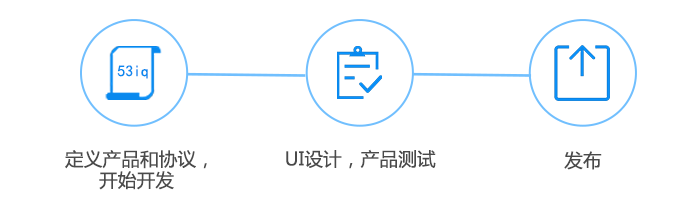
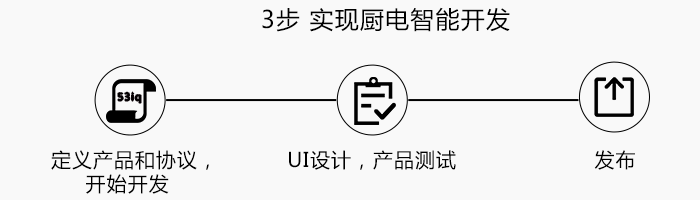
编辑产品信息上传图片到云存储、 开发文档左侧菜单栏统一

diff --git a/templates/center/login.html b/templates/center/login.html
@@ -133,7 +133,7 @@
             text-align: center;
         }
         .btn:hover, .btn:focus{
-            color: #fff;
+            color: #ff6202;
             border-color: rgba(204,204,204,0.43);
             background-color: rgba(255,255,255,0.3);
         }
@@ -166,7 +166,7 @@
             width: 100%;
             height: 45px;
             text-align: center;
-            color: #fff;
+            color: #ff6202;
             border-color: rgba(204,204,204,0.43);
             background-color: rgba(255,255,255,0.3);
         }
@@ -233,9 +233,17 @@
         margin-top: -3px;
         margin-right: 5px;
     }
+    input::-webkit-input-placeholder{
+    color: #797979;opacity:1;
+}
 
     </style>
 {% endblock %}
+{% block img %}
+    <img src="{% static 'image/home/logo-dev.png' %}" height="40"
+                            title="53iq云智能云">
+{% endblock %}
+
 {% block menu %}
 
     <li><a href="{% url 'home/guide' %}">开发指南</a></li>

diff --git a/static/ng/product/info/controller.js b/static/ng/product/info/controller.js
@@ -104,9 +104,9 @@ angular.module('Product.info', ['ngRoute'])
                 alert("产品名称不能为空");
             }
             else {
-                if (!startWith(productImg.attr("src"), "http://dldir.56iq.net")) {
+                if (!startWith(productImg.attr("src"), "http://storage.56iq.net")) {
                     $.ajaxFileUpload({
-                        url: "http://dldir.56iq.net/api/upload/?type=callback&t=" + new Date().getTime(),
+                        url: "/product/upload_file/?type=callback&t=" + new Date().getTime(),
                         fileElementId: "productImgFile",
                         dataType: 'json',
                         success: function (data) {

diff --git a/templates/wiki/doc.html b/templates/wiki/doc.html
@@ -201,7 +201,11 @@
                 data: "",
                 beforeSend:function(){
                     $(".menu-li").children('a').css('color','#000000');
+                    $(".menu-li").css('border-left','none');
+                    $(".menu-li").css('background','#ffffff');
                     $(aobj).css('color','#ff6202');
+                    $(aobj).parent('li').css('background','#e6e6e6');
+                    $(aobj).parent('li').css('border-left','3px solid #ff6202');
                 },
                 success: function (msg) {
 

diff --git a/templates/home/zny.html b/templates/home/zny.html
@@ -69,9 +69,9 @@
     </div>
 
     <div class="hbox">
-        <h2 style="text-align: center;">3步 实现厨电智能开发</h2>
 
-            <div style="text-align: center;">
+
+            <div style="text-align: center;margin-top: 45px;">
                  <img src="{% static 'image/home/lc.png' %}" >
                 <img style="margin-top:30px" src="{% static 'image/home/znpt.jpg' %}" >
             </div>

diff --git a/templates/debug/debug_interface.html b/templates/debug/debug_interface.html
@@ -22,6 +22,7 @@
         }
         .activate{
             background: #e6e6e6;
+            border-left: 3px solid #ff6202;
         }
 
         .activate a{

diff --git a/app/product/views.py b/app/product/views.py
@@ -5,8 +5,8 @@ from django.core.urlresolvers import reverse
 from django.shortcuts import render
 from django.http.response import HttpResponse, JsonResponse
 from django.http.response import HttpResponseRedirect
-from django.http.request import HttpRequest
 import requests
+
 from django.contrib.auth.decorators import login_required
 
 from base.util import gen_app_default_conf
@@ -23,8 +23,8 @@ from base.const import StatusCode
 from base.const import ConventionValue
 from common.smart_helper import *
 from common.message_helper import save_user_message
-from open.settings import BASE_DIR
-
+from conf.commonconf import CLOUD_TOKEN,KEY_URL
+from ebcloudstore.client import EbStore
 from common.util import parse_response, send_test_device_status
 from model.center.app import App
 
@@ -53,7 +53,8 @@ def product_list(request):
         # 在一个人固定账号下没用默认产品，则创建三个默认产品，有跳过
         if not App.objects.filter(developer=DEFAULT_USER).filter(check_status=_convention.APP_DEFAULT):
             for i in range(len(APP_NAME)):
-                result = create_app(DEFAULT_USER, APP_NAME[i], APP_MODEL[i], APP_CATEGORY[i], DEVICE_TYPE[i], APP_COMMAND[i], DEVICE_CONF[i], APP_FACTORY_UID[i], 0, 3)
+                result = create_app(DEFAULT_USER, APP_NAME[i], APP_MODEL[i], APP_CATEGORY[i], DEVICE_TYPE[i],
+                                    APP_COMMAND[i], DEVICE_CONF[i], APP_FACTORY_UID[i], 0, 3)
                 result.app_logo = APP_LOGO[i]
                 result.save()
         if not request.user.developer.developer_id:
@@ -199,7 +200,7 @@ def product_add(request):
                     url = KEY_URL
                     app_key = result.app_appid
                     key = app_key[-8:]
-                    req = requests.get(url, params={'key':key}, timeout=1)
+                    requests.get(url, params={'key': key}, timeout=1)
                 except Exception as e:
                     print(e)
                     pass
@@ -321,7 +322,7 @@ def product_main(request):
                     opera_data.pop(i)
                     break
             save_app(app, opera_data)
-            message_content = '"'+ app.app_name + '"' + fun_name + DEL_FUN
+            message_content = '"' + app.app_name + '"' + fun_name + DEL_FUN
             save_user_message(app.developer_id, message_content, USER_TYPE, app.developer_id)
             return HttpResponse('del_success')
         elif post_data == 'state':
@@ -332,15 +333,14 @@ def product_main(request):
                     fun_name = i['name']
                     if str(i['state']) == '0':
                         i['state'] = '1'
-                        message_content = '"'+ app.app_name + '"' + fun_name + UPDATE_FUN_OPEN
+                        message_content = '"' + app.app_name + '"' + fun_name + UPDATE_FUN_OPEN
                     elif str(i['state']) == '1':
                         i['state'] = '0'
-                        message_content = '"'+ app.app_name + '"' + fun_name + UPDATE_FUN_CLOSE
+                        message_content = '"' + app.app_name + '"' + fun_name + UPDATE_FUN_CLOSE
                     save_app(app, opera_data)
                     save_user_message(app.developer_id, message_content, USER_TYPE, app.developer_id)
                     return HttpResponse('change_success')
         elif post_data == "export":
-            print(type(app_id),app_id)
             res = date_deal(app_id)
             return res
         elif post_data == "save_conf":
@@ -367,7 +367,7 @@ def product_main(request):
                     if str(i['id']) == indata['id']:
                         i.update(indata)
                         break
-                message_content = '"'+ app.app_name + '"' + fun_name + UPDATE_FUN
+                message_content = '"' + app.app_name + '"' + fun_name + UPDATE_FUN
                 tt = "modify_success"
             else:
                 # 添加一条参数信息首先获取当前最大id
@@ -376,7 +376,7 @@ def product_main(request):
                 else:
                     indata['id'] = '1'
                 opera_data.append(indata)
-                message_content = '"'+ app.app_name + '"' + fun_name + CREATE_FUN
+                message_content = '"' + app.app_name + '"' + fun_name + CREATE_FUN
                 tt = "add_success"
             save_app(app, opera_data)
             save_user_message(app.developer_id, message_content, USER_TYPE, app.developer_id)
@@ -493,16 +493,14 @@ def control(request):
 @csrf_exempt
 def upload_file(request):
     if len(request.FILES.dict()) >= 1:
-        f = request.FILES["file"]
-        TMP_FILE = os.path.join(BASE_DIR, "cache/")
-        file_name = os.path.join(TMP_FILE, f.name)
-        print(file_name)
-        d = open(file_name, 'wb+')
-        d.write(f.read())
-        d.close()
-        f.close()
-        CLOUD_TOKEN = "562f584e6f43f646adb17dfa"
-        from ebcloudstore.client import EbStore
+        f = request.FILES["productImgFile"]
         store = EbStore(CLOUD_TOKEN)
-        r = store.upload(file_name)
-        print("返回路径：", r)
+        r = store.upload(f.read(), f.name, f.content_type)
+        ret = json.loads(r)
+        if ret["code"] == 0:
+            print("上传成功")
+        else:
+            print(ret["msg"])
+            logging.getLogger("").info(r["msg"])
+        data = ret["data"]
+        return HttpResponse(data)

diff --git a/conf/commonconf.py b/conf/commonconf.py
@@ -16,3 +16,6 @@ CLOUD_TOKEN = "5630841e6f43f668994af13c"
 
 # 消息验证服务器接口地址
 VALIDATE_URL = "http://localhost:8080/messages/verify_message"
+
+# 产品key值验证服务器接口
+KEY_URL = "https://oven.53iq.com/api/produce/base_html"

diff --git a/conf/message.py b/conf/message.py
@@ -57,5 +57,4 @@ UPDATE_FUN_CLOSE = "功能关闭"
 # 删除产品功能
 DEL_FUN = "功能删除"
 
-KEY_URL = "https://oven.53iq.com/api/produce/base_html"
 
